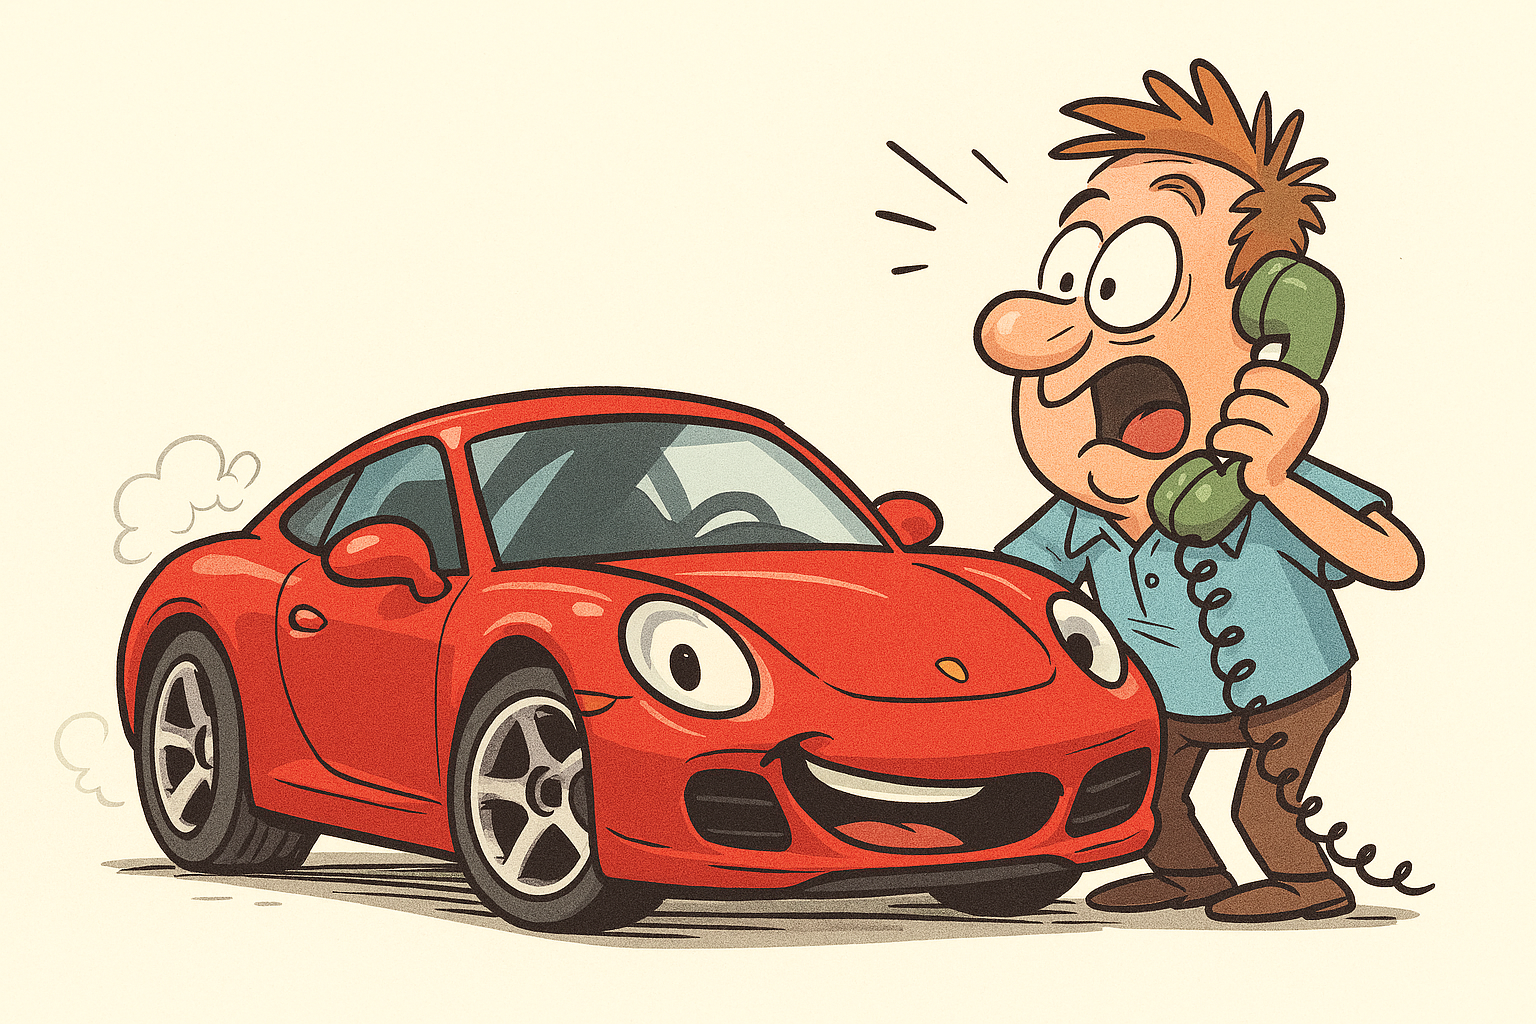
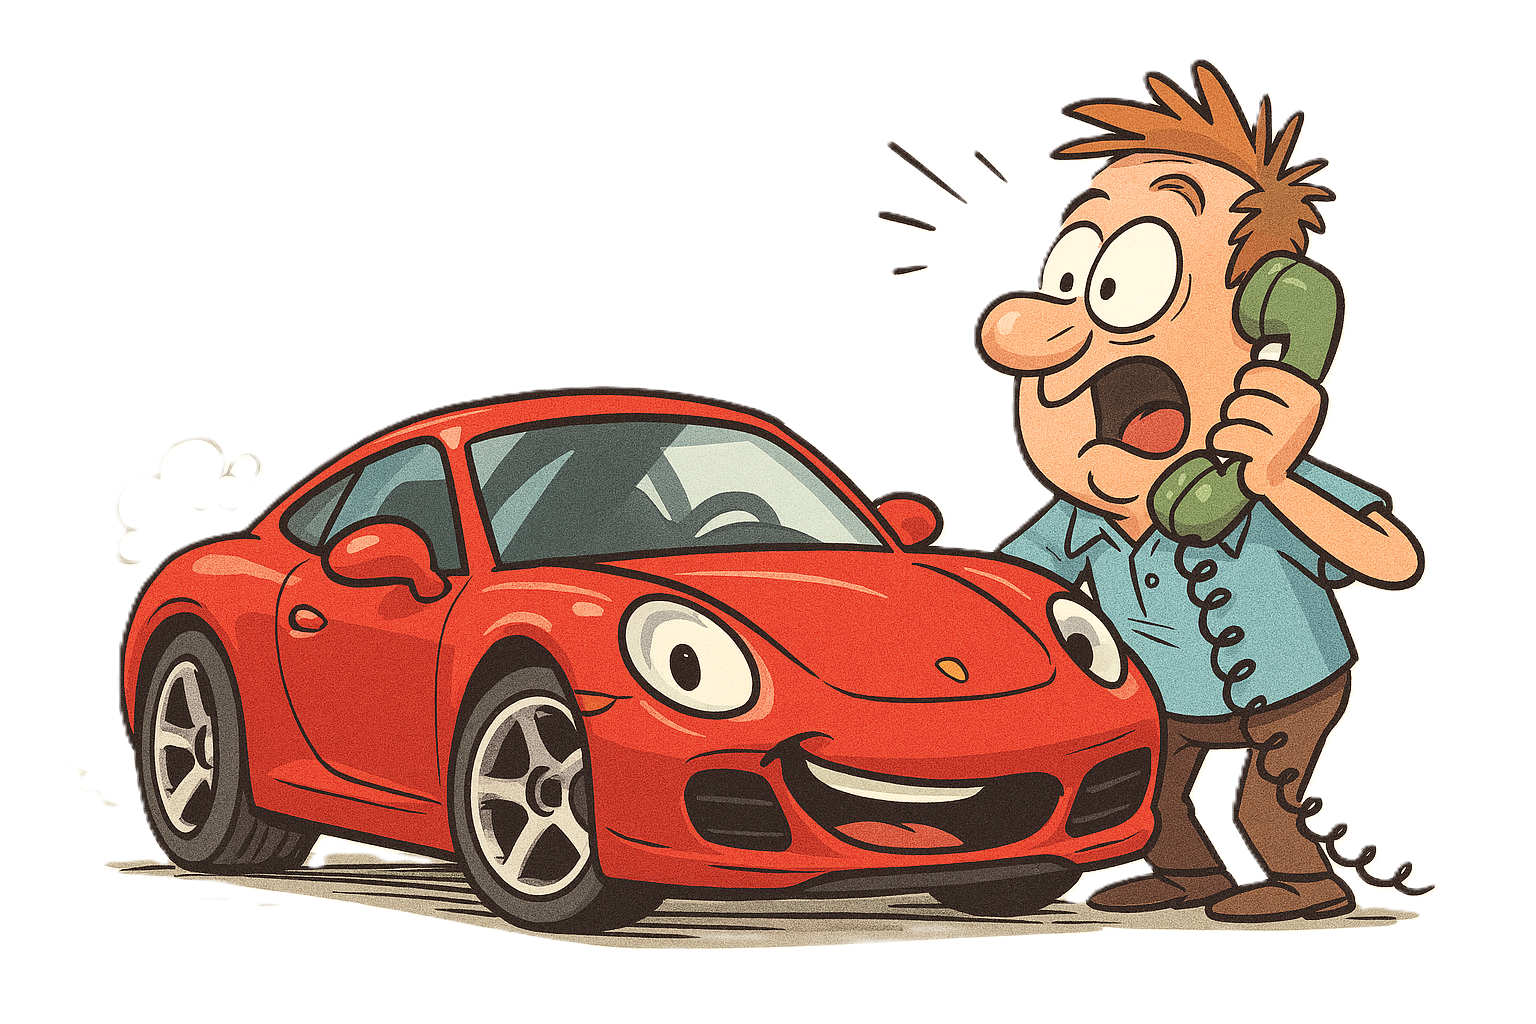
I added a contact form, made the image smaller and added some design details

diff --git a/contacts.html b/contacts.html
@@ -26,7 +26,8 @@
         <h1> Contact Us</h1>
         </section>
 
-        <section class = "small_Header">
+        <div class="div_layout">
+        <section  class = "small_Header">
         <h3>
             Welcome to Wheels On Fire, your gateway to owning a piece of automotive excellence. This site features the exclusive car collection of John O Riley, now available for purchase. From iconic muscle cars that defined an era to cutting-edge sports cars built for speed and style, each vehicle has been meticulously maintained and handpicked for performance and rarity. Whether you're a seasoned collector or a first-time buyer, Wheels On Fire offers a unique opportunity to invest in automotive history. To explore available listings, schedule a viewing, or make an inquiry, please refer to the contact information below.
         </h3>
@@ -40,6 +41,77 @@
         <h2>Phone</h2>
         <h3><a>0879363108</a></h3>
         </section>
+
+        
+        <section class ="Cartoon_Car">
+        <img src="Designer.png" alt="Cartoon Car" width="400" height="300"> 
+          </section>
+        </div>>
+
+        <section class="Contact_form">
+        <h2> Contact Form</h2>
+        <form>
+          <table>
+            <tr>
+              <td> First name 
+
+              </td>
+
+              <td> 
+                <input type="text" name="First name" required>
+               </td>
+
+           </tr>
+
+           <tr>
+            <td> Last name
+
+              </td>
+             <td>
+                <input type="text" name="Last name" required>
+               
+             </td>
+           </tr>
+
+            <tr>
+              <td> Email
+  
+                </td>
+              <td>
+                  <input type="email" name="Email" required>
+                
+              </td>
+
+            </tr>
+
+            <tr>
+              <td> Phone Number
+
+                </td>
+              <td>
+                  <input type="tel" name="Phone Number" required>
+                
+              </td>
+
+            <tr>
+              <td> Message
+
+                </td>
+              <td>
+                  <textarea name="Message" rows="5" cols="30" required></textarea>
+                
+              </td>
+
+
+          </table>
+
+          <input type="submit" value="Submit">
+
+
+        </form>
+
+        </section>
+          
 
     </body>
         

diff --git a/contacts_style.css b/contacts_style.css
@@ -1,8 +1,19 @@
 
+.div_layout {
+    border : 2px solid black;
+    margin : auto;
+    text-align : center;
+    padding : 10px;
+    width : 80%;
+    background-color : #f4f4f4;
+    border-radius : 10px;
+}
 
-img {
+.Cartoon_Car {
     float : right;
-} 
+    margin : auto;
+
+}
 
 .Red_Header {
     color : #e31837;
@@ -13,5 +24,15 @@ img {
     color : red;
 }
 
+
+.Contact_form {
+    margin : auto;
+    text-align : left;
+    padding : 10px;
+    width : 50%;
+    border: #e31837 2px solid;
+    border-radius : 10px;
+    background-color : #fff0f0;
+}
 
 
